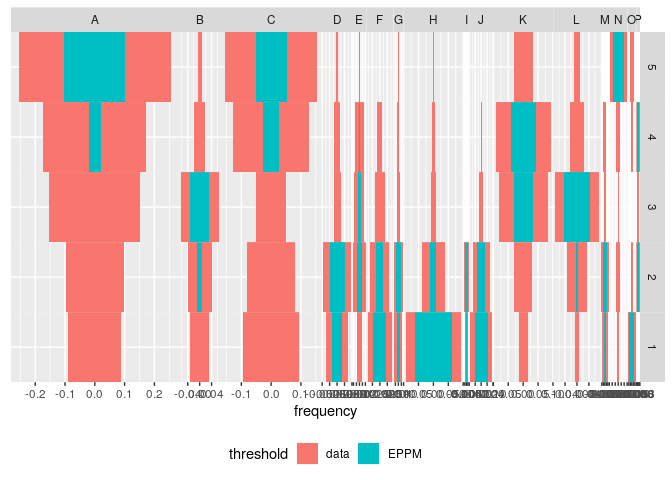
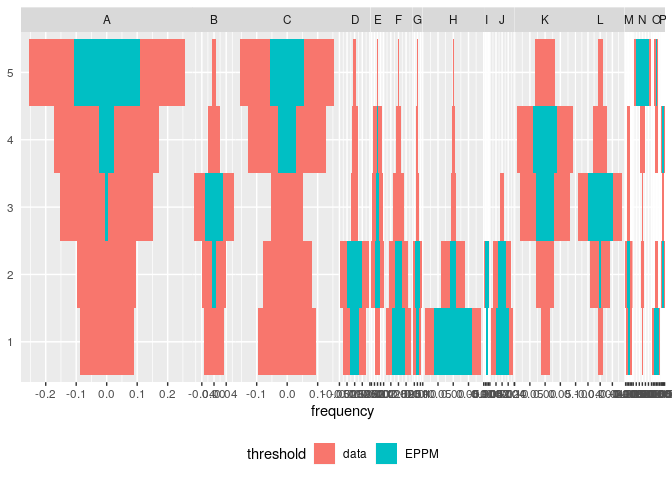
Add seriation section

diff --git a/README.md b/README.md
@@ -8,7 +8,7 @@ tabula <img src="man/figures/logo.png" align="right" />
 Overview
 --------
 
-`tabula` provides an easy way to examine archaeological count data (artifacts, faunal remains, etc.). This package includes several measures of diversity, e.g. richness, rarefaction, diversity, evenness, turnover and similarity. It also provides some matrix seriation methods for chronological modeling. The package make it easy to visualize count data and statistical thresholds: rank/abundance plots, Ford and Bertin diagrams, etc.
+`tabula` provides an easy way to examine archaeological count data (artifacts, faunal remains, etc.). This package includes several measures of diversity, e.g. richness, rarefaction, diversity, similarity, etc. It also provides some matrix seriation methods for chronological modeling and dating. The package make it easy to visualize count data and statistical thresholds: rank/abundance plots, Ford and Bertin diagrams, etc.
 
 Installation
 ------------
@@ -31,7 +31,7 @@ Usage
 
 `tabula` provides a set of S4 classes that extend the `matrix` data type from R `base`. These new classes represent different special types of matrix:
 
--   Numeric matrix:
+-   Abundance matrix:
     -   `CountMatrix` represents count data,
     -   `FrequencyMatrix` represents frequency data,
 -   Logical matrix:
@@ -136,6 +136,30 @@ similarity(count, method = "morisita")
 #> 2 0.6670201 0.7964064 0.8251501 1.0000000 0.9224228
 #> 1 0.6286479 0.7106784 0.6637747 0.9224228 1.0000000
 ```
+
+### Seriation
+
+``` r
+indices <- seriate(count, method = "rankin", margin = 2)
+
+indices
+#> Permutation order for matrix seriation: 
+#>    Row order: 1 2 3 4 5 
+#>    Column order: 14 1 11 3 16 12 5 2 15 13 4 7 6 9 10 8 
+#>    Seriation method: ranking 
+#>    Agreement coefficient:  
+#>    Agreement method:
+```
+
+``` r
+# Permute matrix columns
+new_count <- permute(count, indices)
+
+# Plot Ford diagram of the rearranged matrix
+plotBar(new_count)
+```
+
+![](man/figures/README-permute-1.png)
 
 ### Visualization
 
